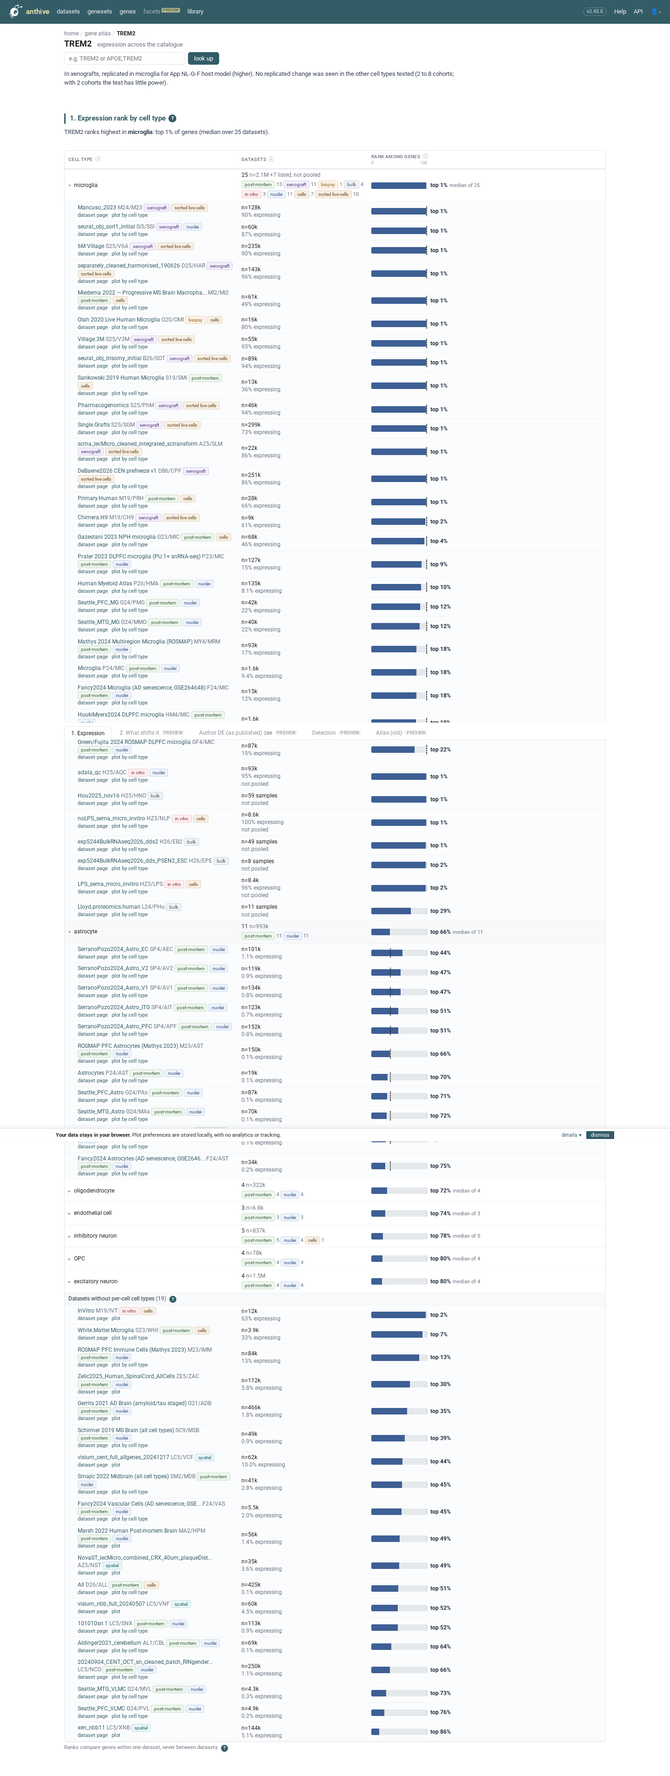
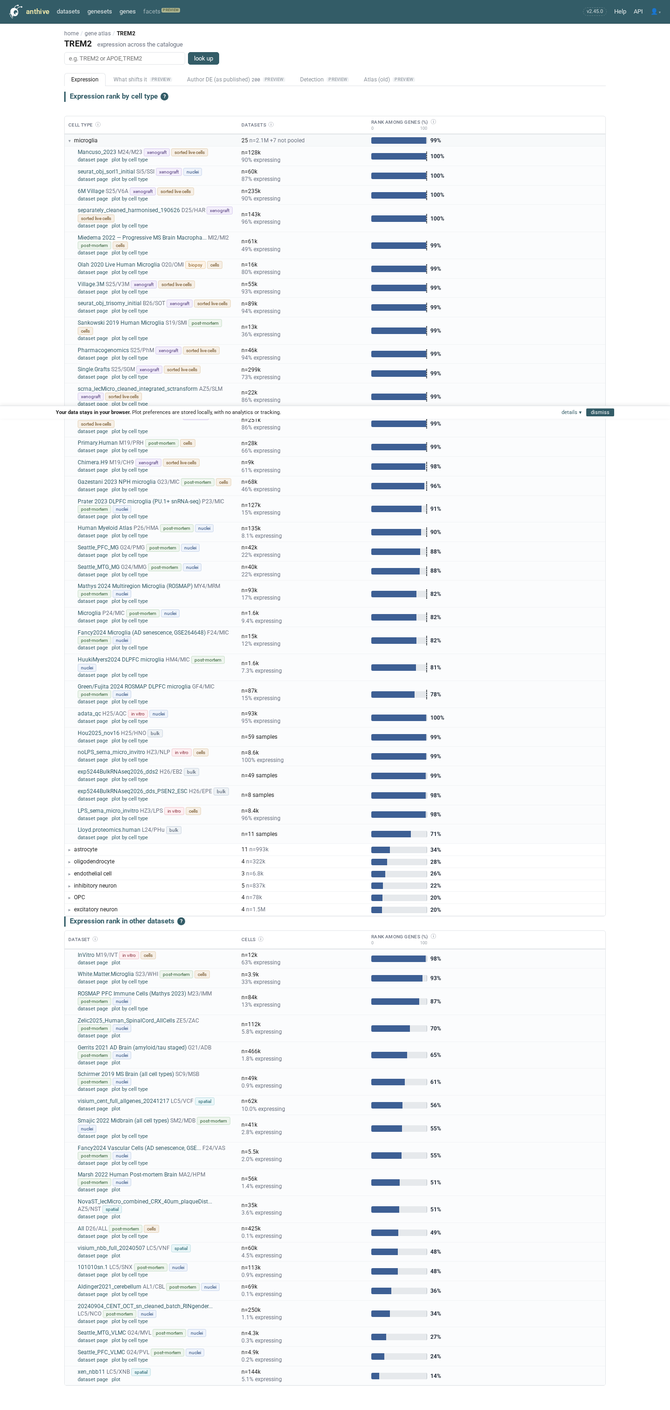
Expression tab: one percent per row, no tag pills on cell type rows, unnumbered tabs and two equal sections; facet summary moves into What shifts it
Claude-Session: https://claude.ai/code/session_01ATo8q1HP1DaD2KMHdiMUow

diff --git a/web/templates/_view_expression.html b/web/templates/_view_expression.html
@@ -14,6 +14,7 @@
 {% macro expression_styles() -%}
 <style>
   col.x-name { width: 32%; } col.x-ds { width: 24%; } col.x-rank { width: 44%; }
+  #vx-other { margin-top: 20px; }
   .vx-prog { font-size: 11.5px; color: var(--text-muted); margin: 0 0 6px; min-height: 16px; }
   .vx-top { font-weight: 600; font-size: 12px; font-variant-numeric: tabular-nums; }
   @media (max-width: 640px) {
@@ -27,29 +28,30 @@
 {% set peers = 'genes' if kind == 'gene' else 'gene sets' %}
 <div id="vx-root" data-kind="{{ kind }}" data-subject="{{ subject }}">
   {{ review_banner('gene-expression' if kind == 'gene' else 'geneset-expression') }}
-  {% call section_help('1. Expression rank by cell type', 'vx-help') %}
-    <p>For each cell type this tab shows where the {{ what }} sits relative to all other {{ peers }} in the same dataset, so you see where it is expressed most strongly compared with everything else. The result is a percentile, written "top x%": a bar that is almost full means the {{ what }} is among the most highly expressed {{ peers }} of that dataset. The ranking is done inside one dataset only, so it does not depend on how a study normalised its counts. Ranks of different datasets are never pooled into one number across cell types.</p>
+  {% call section_help('Expression rank by cell type', 'vx-help') %}
+    <p>For each cell type this tab shows where the {{ what }} sits relative to all other {{ peers }} in the same dataset, so you see where it is expressed most strongly compared with everything else. The value is a percent: 76% means the {{ what }} has a higher mean than 76% of the {{ peers }} of that dataset. A longer bar and a higher percent mean stronger expression relative to the rest. The ranking is done inside one dataset only, so it does not depend on how a study normalised its counts, and ranks are never pooled across datasets other than as a median.</p>
     <h4>Cell type rows</h4>
-    <p>The value of a cell type row is the median percentile over its datasets, and the number of datasets is given next to it. Cell types are sorted by that median, strongest first, so the top row is where the {{ what }} stands out most. Open a row to see its datasets: one bar per dataset, the dotted line marks the median of the cell type, and the links open the dataset page and a plot of the {{ what }} in that dataset.</p>
+    <p>The value of a cell type row is the median percent over its datasets; the Datasets column gives how many there are. Cell types are sorted by that median, strongest first. Open a row to see its datasets: one bar per dataset, the dotted line marks the median of the cell type, a tag gives the category of the dataset and whether it was made from nuclei or cells, and the links open the dataset page and a plot of the {{ what }} in that dataset.</p>
     {% if kind == 'gene' %}
-    <h4>What the rank is</h4>
-    <p>The percentile of the mean (log-normalised) expression of {{ subject }} among all genes found in the dataset: the share of those genes with a lower mean, taken over all cells of the dataset. Datasets in a cell type row consist of one known cell type, so this is the rank within that cell type. Genes with no count in any cell of the dataset are not part of the comparison. The percent of cells that express the gene is shown in small text next to the number of cells.</p>
+    <h4>What the percent is</h4>
+    <p>The share of the genes found in the dataset that have a lower mean (log-normalised) expression than {{ subject }}, taken over all cells of the dataset. Datasets in a cell type row consist of one known cell type, so this is the rank within that cell type. Genes with no count in any cell of the dataset are not part of the comparison. The percent of cells that express the gene is shown in small text under the number of cells.</p>
     {% else %}
-    <h4>What the rank is</h4>
-    <p>The percentile of the mean scanpy score of {{ subject }} among the other gene sets scored on the same cells of the same dataset: the share of those sets with a lower mean score, ties counting half. The scanpy score subtracts the mean of a matched control set of genes, so the means of different sets in one dataset are comparable. UCell is not used because it depends on the number of genes in a set. Only gene sets that apply to the cell type of the dataset are compared: a set built for one cell type is scored on those cells only, and sets that apply to every cell count everywhere. For microglia datasets this means the microglia sets plus the general sets, not the astrocyte sets. It needs at least 10 other sets scored on at least 20 cells, otherwise it reads n/a. The first visit of a dataset can take a moment while its scores are read.</p>
+    <h4>What the percent is</h4>
+    <p>The share of the other gene sets scored on the same cells of the same dataset that have a lower mean scanpy score than {{ subject }}, ties counting half. The scanpy score subtracts the mean of a matched control set of genes, so the means of different sets in one dataset are comparable. UCell is not used because it depends on the number of genes in a set. Only gene sets that apply to the cell type of the dataset are compared: a set built for one cell type is scored on those cells only, and sets that apply to every cell count everywhere. For microglia datasets this means the microglia sets plus the general sets, not the astrocyte sets. It needs at least 10 other sets scored on at least 20 cells, otherwise it reads n/a. The first visit of a dataset can take a moment while its scores are read.</p>
     {% endif %}
     <h4>Same definition for genes and gene sets</h4>
-    <p>Both pages rank the mean of the {{ what }} against the means of its peers in the same dataset, and show the same bar, so the two views read the same way. The unit differs: genes are ranked by mean expression, gene sets by mean score, and the ranks of a gene and of a gene set are not interchangeable numbers.</p>
+    <p>Both pages rank the mean of the {{ what }} against the means of its peers in the same dataset and show the same bar. The unit differs (genes by mean expression, gene sets by mean score), so the percent of a gene and of a gene set are not interchangeable numbers.</p>
     <h4>Dataset categories</h4>
-    <p>Rows are cell types across all datasets, not split by system. A dataset whose cells are all of one known cell type (for example sorted or cultured microglia) sits in that cell type's row, whatever its system, with a tag for its category: <strong>post-mortem</strong>, <strong>xenograft</strong> (human cells in a mouse brain), <strong>biopsy</strong>, <strong>in vitro</strong> or <strong>bulk</strong>. Only tissue datasets (post-mortem, xenograft, biopsy) enter the median of the row. In vitro and bulk datasets are listed in the opened row and marked "not pooled".</p>
-    <h4>Datasets without per-cell cell types</h4>
-    <p>The datasets under this header are listed one by one at the bottom. Their cells are a mixture or have no per-cell cell type (whole-tissue objects, spatial and unclassified datasets), so the rank describes the whole dataset and should be compared with the cell type rows with care.</p>
-    <h4>Nuclei and cells</h4>
-    <p>Detection is not comparable between nuclei and whole cells, so each dataset carries a tag for which it is. Xenograft datasets are sorted live cells.</p>
+    <p>A dataset whose cells are all of one known cell type (for example sorted or cultured microglia) sits in that cell type's row, whatever its system, with a tag for its category: <strong>post-mortem</strong>, <strong>xenograft</strong> (human cells in a mouse brain), <strong>biopsy</strong>, <strong>in vitro</strong> or <strong>bulk</strong>. Only tissue datasets (post-mortem, xenograft, biopsy) enter the median of the row; in vitro and bulk datasets are listed in the opened row and not pooled. Detection is not comparable between nuclei and whole cells, so each dataset also carries a nuclei or cells tag (xenograft datasets are sorted live cells).</p>
   {% endcall %}
-  <div id="vx-headline"></div>
   <div class="vx-prog" id="vx-progress"></div>
   <div id="vx-body"><p class="vw-loading">{% if kind == 'gene' %}Computing {{ subject }} across the catalogue (the first view can take up to a minute, later views are cached)...{% else %}Loading the datasets in which {{ subject }} was scored...{% endif %}</p></div>
+  <div id="vx-other" hidden>
+    {% call section_help('Expression rank in other datasets', 'vx-help-other') %}
+      <p>These datasets are listed one by one. Their cells are a mixture or have no per-cell cell type (whole-tissue objects, spatial and unclassified datasets), so they cannot be assigned to a cell type row and the percent describes the whole dataset. Compare it with the cell type rows with care. The percent is defined as above.</p>
+    {% endcall %}
+    <div id="vx-other-body"></div>
+  </div>
 </div>
 {%- endmacro %}
 
@@ -61,7 +63,7 @@
 window.antExpression = window.antExpression || (function () {
   'use strict';
   var V = window.antViews;
-  function topPct(rank) { return 'top ' + Math.max(1, Math.round((1 - rank) * 100)) + '%'; }
+  function pctOf(rank) { return Math.round(rank * 100) + '%'; }
   function bar(value, mark) {
     var width = Math.max(0, Math.min(100, value));
     return '<span class="vw-bar rank"><span class="vw-bar-fill" style="width:' + width + '%"></span>' + (mark != null ? '<span class="vw-bar-mark" style="left:' + Math.max(0, Math.min(100, mark)) + '%"></span>' : '') + '</span>';
@@ -76,11 +78,11 @@ window.antExpression = window.antExpression || (function () {
     var cat = cats[key] || { label: key, tip: '' };
     return '<span class="vw-cat ' + V.esc(key) + '" title="' + V.esc(cat.tip) + '">' + V.esc(cat.label) + '</span>';
   }
-  // Rank cell: `entry` is the row (rank, peers, reason, tip); `mark` the dotted median line (0..1) or null.
-  function rankCell(row, mark, withPeers) {
+  // Rank cell: `entry` is the row (rank, reason, tip); `mark` the dotted median line (0..1) or null.
+  function rankCell(row, mark) {
     if (row.rank === 'pending') return '<span class="muted">computing...</span>';
     if (!isNumber(row.rank)) return '<span class="muted" title="' + V.esc(row.reason || 'no rank available') + '">n/a</span>';
-    return '<span title="' + V.esc(row.tip || '') + '">' + bar(row.rank * 100, mark == null ? null : mark * 100) + '<span class="vw-bar-val">' + topPct(row.rank) + (withPeers && row.peers ? '<span class="rng">of ' + V.compact(row.peers) + '</span>' : '') + '</span></span>';
+    return '<span title="' + V.esc(row.tip || '') + '">' + bar(row.rank * 100, mark == null ? null : mark * 100) + '<span class="vw-bar-val">' + pctOf(row.rank) + '</span></span>';
   }
   function nCell(row) { return row.n_cells == null ? '' : 'n=' + V.compact(row.n_cells) + (row.bulk ? ' samples' : ''); }
   function byRank(a, b) { return (isNumber(b.rank) ? b.rank : -1) - (isNumber(a.rank) ? a.rank : -1); }
@@ -106,63 +108,46 @@ window.antExpression = window.antExpression || (function () {
     if (settled) blocks.sort(function (a, b) { return (isNumber(b.median) ? b.median : -1) - (isNumber(a.median) ? a.median : -1) || b.members.length - a.members.length; });
     return { blocks: blocks, untyped: untyped };
   }
-  function headline(config, blocks) {
-    var best = blocks.filter(function (block) { return isNumber(block.median); })[0];
-    var host = document.getElementById('vx-headline');
-    if (!host) return;
-    if (!best) { host.innerHTML = ''; return; }
-    var peers = config.kind === 'gene' ? 'genes' : 'gene sets';
-    host.innerHTML = '<p class="vw-lede">' + V.esc(config.subject) + ' ranks highest in <b>' + V.esc(V.plain(best.group)) + '</b>: ' + topPct(best.median) + ' of ' + peers + ' (median over ' + V.plural(best.nRanked, 'dataset') + ').</p>';
-  }
   function mount(config) {
     var host = document.getElementById('vx-body');
+    var otherBox = document.getElementById('vx-other');
+    var otherHost = document.getElementById('vx-other-body');
     var progress = document.getElementById('vx-progress');
     var opened = {};
     var peers = config.kind === 'gene' ? 'genes' : 'gene sets';
     var rankTip = config.kind === 'gene'
-      ? 'Percentile of the mean (log-normalised) expression of the gene among all genes found in the dataset, shown as top x%. A longer bar means more highly expressed than more of the other genes. In a cell type row the value is the median over its datasets; in an opened row the dotted line is that median.'
-      : 'Percentile of the mean scanpy score of the gene set among the other gene sets scored on the same cells of the dataset (sets that apply to the cell type), shown as top x%. A longer bar means a higher mean score than more of the other sets. In a cell type row the value is the median over its datasets; in an opened row the dotted line is that median.';
+      ? 'Percent of the genes found in the dataset with a lower mean (log-normalised) expression than this gene. Higher means stronger expression relative to the other genes. A cell type row shows the median over its datasets; in an opened row the dotted line is that median.'
+      : 'Percent of the other gene sets scored on the same cells of the dataset (sets that apply to its cell type) with a lower mean scanpy score than this gene set. Higher means a stronger score relative to the other sets. A cell type row shows the median over its datasets; in an opened row the dotted line is that median.';
+    function tableHtml(firstLabel, firstTip, secondLabel, secondTip, body) {
+      return '<div class="vw-box"><table class="vw-table fixed vx-table"><colgroup><col class="x-name"><col class="x-ds"><col class="x-rank"></colgroup><thead><tr>' +
+        headerCell(firstLabel, firstTip) +
+        headerCell(secondLabel, secondTip) +
+        headerCell('Rank among ' + peers + ' (%)', rankTip, ['0', '100']) + '</tr></thead><tbody>' + body + '</tbody></table></div>';
+    }
+    function datasetRow(row, attrs, mark) {
+      return '<tr class="vw-sub"' + attrs + '>' + datasetCell(config, row) + '<td class="vw-ds">' + nCell(row) + (row.note ? '<div class="muted">' + row.note + '</div>' : '') + '</td><td class="vw-bar-cell">' + rankCell(row, mark) + '</td></tr>';
+    }
     function draw(rows) {
       var pending = rows.filter(function (row) { return row.rank === 'pending'; }).length;
       progress.textContent = pending ? 'Computing ranks: ' + (rows.length - pending) + ' of ' + rows.length + ' datasets done.' : '';
-      if (!rows.length) { host.innerHTML = '<div class="vw-placeholder">' + V.esc(config.subject) + ' has no ' + (config.kind === 'gene' ? 'expression summary in the human datasets' : 'per-cell score in any dataset') + '.</div>'; return; }
+      if (!rows.length) { host.innerHTML = '<div class="vw-placeholder">' + V.esc(config.subject) + ' has no ' + (config.kind === 'gene' ? 'expression summary in the human datasets' : 'per-cell score in any dataset') + '.</div>'; otherBox.hidden = true; return; }
       var built = buildBlocks(rows, !pending);
-      var blocks = built.blocks;
-      var html = '<div class="vw-box"><table class="vw-table fixed vx-table"><colgroup><col class="x-name"><col class="x-ds"><col class="x-rank"></colgroup><thead><tr>' +
-        headerCell('Cell type', 'Cell type of the datasets in the row, sorted by the rank of ' + (config.kind === 'gene' ? 'the gene' : 'the gene set') + ' (strongest first). Click a row to list its datasets.') +
-        headerCell('Datasets', 'Number of datasets pooled into this cell type and the cells in them (n). In vitro and bulk datasets are listed in the opened row but not pooled. Tags show the category of each dataset and whether it was made from nuclei or from whole cells.') +
-        headerCell('Rank among ' + peers, rankTip, ['0', '100']) + '</tr></thead><tbody>';
-      blocks.forEach(function (block, index) {
+      var body = '';
+      built.blocks.forEach(function (block, index) {
         var key = 'g:' + block.group;
         var isOpen = !!opened[key];
         var extra = block.listed.length - block.members.length;
         var totalCells = block.members.reduce(function (sum, row) { return sum + (row.n_cells || 0); }, 0);
-        var counts = {}, catCounts = {};
-        block.listed.forEach(function (row) {
-          if (row.modality) counts[row.modality] = (counts[row.modality] || 0) + 1;
-          catCounts[row.category] = (catCounts[row.category] || 0) + 1;
-        });
-        var tags = Object.keys(catCounts).map(function (name) { return categoryTag(config.categories, name) + ' ' + catCounts[name]; }).concat(Object.keys(counts).map(function (name) { return modalityTag(name) + ' ' + counts[name]; })).join(' ');
-        var pending = block.members.some(function (row) { return row.rank === 'pending'; });
         var summary;
         if (!block.members.length) summary = '<span class="muted" title="Only in vitro or bulk datasets: listed in the opened row, not pooled.">not pooled</span>';
-        else if (pending && !isNumber(block.median)) summary = '<span class="muted">computing...</span>';
-        else if (!isNumber(block.median)) summary = '<span class="muted" title="No dataset of this cell type could be ranked.">n/a</span>';
-        else summary = '<span title="Median over ' + block.nRanked + ' dataset(s); ' + topPct(block.low) + ' (weakest) to ' + topPct(block.high) + ' (strongest)">' + bar(block.median * 100, null) + '<span class="vw-bar-val">' + topPct(block.median) + '<span class="rng">median of ' + block.nRanked + '</span></span></span>';
-        html += '<tr class="vw-toggle" data-key="' + V.esc(key) + '" data-i="' + index + '"><td><span class="caret">' + (isOpen ? '&#9662;' : '&#9656;') + '</span>' + V.esc(V.plain(block.group)) + '</td><td class="vw-ds">' + (block.members.length || '0') + ' <span class="muted">' + (block.members.length ? nCell({ n_cells: totalCells }) : '') + (extra ? (block.members.length ? ' ' : '') + '+' + extra + ' listed, not pooled' : '') + '</span>' + (tags ? '<div class="vw-mods">' + tags + '</div>' : '') + '</td><td class="vw-bar-cell">' + summary + '</td></tr>';
+        else if (!isNumber(block.median)) summary = block.members.some(function (row) { return row.rank === 'pending'; }) ? '<span class="muted">computing...</span>' : '<span class="muted" title="No dataset of this cell type could be ranked.">n/a</span>';
+        else summary = '<span title="Median over ' + block.nRanked + ' dataset(s), from ' + pctOf(block.low) + ' to ' + pctOf(block.high) + '">' + bar(block.median * 100, null) + '<span class="vw-bar-val">' + pctOf(block.median) + '</span></span>';
+        body += '<tr class="vw-toggle" data-key="' + V.esc(key) + '" data-i="' + index + '"><td><span class="caret">' + (isOpen ? '&#9662;' : '&#9656;') + '</span>' + V.esc(V.plain(block.group)) + '</td><td class="vw-ds">' + (block.members.length || '0') + ' <span class="muted">' + (block.members.length ? nCell({ n_cells: totalCells }) : '') + (extra ? ' +' + extra + ' not pooled' : '') + '</span></td><td class="vw-bar-cell">' + summary + '</td></tr>';
         block.listed.slice().sort(function (a, b) { return (b.pooled - a.pooled) || byRank(a, b); }).forEach(function (row) {
-          var mark = row.pooled && isNumber(block.median) ? block.median : null;
-          html += '<tr class="vw-sub" data-p="' + index + '"' + (isOpen ? '' : ' hidden') + '>' + datasetCell(config, row) + '<td class="vw-ds">' + nCell(row) + (row.note ? '<div class="muted">' + row.note + '</div>' : '') + (row.pooled ? '' : '<div class="muted" title="In vitro and bulk datasets are listed with their tag but not pooled into the cell type summary, because culture and bulk samples are not comparable with tissue cells.">not pooled</div>') + '</td><td class="vw-bar-cell">' + rankCell(row, mark, true) + '</td></tr>';
+          body += datasetRow(row, ' data-p="' + index + '"' + (isOpen ? '' : ' hidden'), row.pooled && isNumber(block.median) ? block.median : null);
         });
       });
-      if (built.untyped.length) {
-        html += '<tr class="vw-scope-row"><td colspan="3">Datasets without per-cell cell types <span class="muted">(' + built.untyped.length + ')</span>&nbsp;' + V.helpBtn('vx-help') + '</td></tr>';
-        built.untyped.slice().sort(byRank).forEach(function (row) {
-          html += '<tr class="vw-sub vw-flat">' + datasetCell(config, row) + '<td class="vw-ds">' + nCell(row) + (row.note ? '<div class="muted">' + row.note + '</div>' : '') + '</td><td class="vw-bar-cell">' + rankCell(row, null, true) + '</td></tr>';
-        });
-      }
-      html += '</tbody></table></div><p class="vw-fnote">Ranks compare ' + peers + ' within one dataset, never between datasets&nbsp;' + V.helpBtn('vx-help') + '</p>';
-      host.innerHTML = html;
+      host.innerHTML = built.blocks.length ? tableHtml('Cell type', 'Cell type of the datasets in the row, strongest first. Click a row to list its datasets.', 'Datasets', 'Number of datasets pooled into the cell type and the cells in them (n). In vitro and bulk datasets are listed in the opened row but not pooled.', body) : '<div class="vw-placeholder">No dataset consists of one known cell type.</div>';
       host.querySelectorAll('tr.vw-toggle').forEach(function (tr) {
         tr.addEventListener('click', function () {
           var subs = host.querySelectorAll('tr[data-p="' + tr.dataset.i + '"]');
@@ -172,7 +157,8 @@ window.antExpression = window.antExpression || (function () {
           tr.querySelector('.caret').innerHTML = show ? '&#9662;' : '&#9656;';
         });
       });
-      headline(config, blocks);
+      otherBox.hidden = !built.untyped.length;
+      otherHost.innerHTML = built.untyped.length ? tableHtml('Dataset', 'Datasets whose cells are a mixture or have no per-cell cell type; the percent describes the whole dataset.', 'Cells', 'Number of cells (samples for bulk) in the dataset.', built.untyped.slice().sort(byRank).map(function (row) { return datasetRow(row, '', null); }).join('')) : '';
     }
     config.rowsReady(draw);
   }
@@ -181,7 +167,7 @@ window.antExpression = window.antExpression || (function () {
     row.typed = row.category !== 'spatial' && row.category !== 'unclassified' && groups.indexOf(row.group) >= 0;
     return row;
   }
-  return { mount: mount, classify: classify, topPct: topPct };
+  return { mount: mount, classify: classify, pctOf: pctOf };
 })();
 </script>
 {%- endmacro %}

diff --git a/web/templates/geneset.html b/web/templates/geneset.html
@@ -39,18 +39,17 @@
 </details>
 {% endif %}
 {% endif %}
-{{ view_geneset_headline() }}
 <div class="tab-bar vw-tabs-bar" id="vw-tabs" role="tablist">
-  <button type="button" class="tab-btn {{ view_class('geneset-expression') }}" title="{{ view_tip('geneset-expression', 'Where the gene set ranks among all gene sets scored in a dataset, per cell type') }}" data-vtab="expression" data-hash="expression" role="tab">1. Expression</button>
+  <button type="button" class="tab-btn {{ view_class('geneset-expression') }}" title="{{ view_tip('geneset-expression', 'Where the gene set ranks among all gene sets scored in a dataset, per cell type') }}" data-vtab="expression" data-hash="expression" role="tab">Expression</button>
   <button type="button" class="tab-btn {{ view_class('geneset-score') }}" title="{{ view_tip('geneset-score', 'The earlier expression table: rank among gene sets and spread of the score') }}" data-vtab="score" data-hash="module-score" data-alias="geneset-view" role="tab">Module score</button>
-  <button type="button" class="tab-btn {{ view_class('geneset-shifts') }}" title="{{ view_tip('geneset-shifts', 'Facet effects on the mean score of the set') }}" data-vtab="shifts" data-hash="shifts" role="tab">2. What shifts it</button>
-  <button type="button" class="tab-btn {{ view_class('geneset-variability') }}" title="{{ view_tip('geneset-variability') }}" data-vtab="variability" data-hash="variability" role="tab" hidden>3. Donor variability</button>
+  <button type="button" class="tab-btn {{ view_class('geneset-shifts') }}" title="{{ view_tip('geneset-shifts', 'Facet effects on the mean score of the set') }}" data-vtab="shifts" data-hash="shifts" role="tab">What shifts it</button>
+  <button type="button" class="tab-btn {{ view_class('geneset-variability') }}" title="{{ view_tip('geneset-variability') }}" data-vtab="variability" data-hash="variability" role="tab" hidden>Donor variability</button>
   <button type="button" class="tab-btn {{ view_class('geneset-genes') }}" title="{{ view_tip('geneset-genes', 'Member genes and their own facet calls') }}" data-vtab="genes" data-hash="genes" role="tab">Genes</button>
   <button type="button" class="tab-btn vw-old {{ view_class('geneset-page') }}" title="{{ view_tip('geneset-page', 'The earlier geneset page: members, where the score varies most') }}" data-vtab="page" data-hash="page" role="tab">Geneset page (old)</button>
 </div>
 <div class="tab-panel vw-panel" id="vt-expression">{{ expression_panel('geneset', payload.display_name) }}</div>
 <div class="tab-panel vw-panel" id="vt-score">{{ _review_banner('geneset-score') }}{{ view_geneset_score(name) }}</div>
-<div class="tab-panel vw-panel" id="vt-shifts">{{ _review_banner('geneset-shifts') }}{{ view_geneset_shifts(name) }}</div>
+<div class="tab-panel vw-panel" id="vt-shifts">{{ _review_banner('geneset-shifts') }}{{ view_geneset_headline() }}{{ view_geneset_shifts(name) }}</div>
 <div class="tab-panel vw-panel" id="vt-variability">{{ _review_banner('geneset-variability') }}{{ view_geneset_variability() }}</div>
 <div class="tab-panel vw-panel" id="vt-genes">{{ _review_banner('geneset-genes') }}{{ view_geneset_genes(name) }}</div>
 <div class="tab-panel" id="vt-page">

diff --git a/web/templates/genes.html b/web/templates/genes.html
@@ -203,17 +203,16 @@
 {{ expression_styles() }}
 {{ views_core() }}
 {{ expression_core() }}
-{{ view_gene_headline() }}
 <div class="tab-bar vw-tabs-bar" id="vw-tabs" role="tablist">
-  <button type="button" class="tab-btn {{ view_class('gene-expression') }}" title="{{ view_tip('gene-expression', 'Where the gene ranks among all genes, per cell type') }}" data-vtab="expression" data-hash="expression" role="tab">1. Expression</button>
-  <button type="button" class="tab-btn {{ view_class('gene-shifts') }}" title="{{ view_tip('gene-shifts', 'Facet effects on the gene') }}" data-vtab="shifts" data-hash="shifts" role="tab">2. What shifts it</button>
-  <button type="button" class="tab-btn {{ view_class('gene-variability') }}" title="{{ view_tip('gene-variability') }}" data-vtab="variability" data-hash="variability" role="tab" hidden>3. Donor variability</button>
+  <button type="button" class="tab-btn {{ view_class('gene-expression') }}" title="{{ view_tip('gene-expression', 'Where the gene ranks among all genes, per cell type') }}" data-vtab="expression" data-hash="expression" role="tab">Expression</button>
+  <button type="button" class="tab-btn {{ view_class('gene-shifts') }}" title="{{ view_tip('gene-shifts', 'Facet effects on the gene') }}" data-vtab="shifts" data-hash="shifts" role="tab">What shifts it</button>
+  <button type="button" class="tab-btn {{ view_class('gene-variability') }}" title="{{ view_tip('gene-variability') }}" data-vtab="variability" data-hash="variability" role="tab" hidden>Donor variability</button>
   <button type="button" class="tab-btn {{ view_class('gene-author-de') }}" title="{{ view_tip('gene-author-de') }}" data-vtab="de" data-hash="author-de" role="tab" hidden>Author DE (as published)<span class="tab-count"></span></button>
   <button type="button" class="tab-btn {{ view_class('gene-detection') }}" title="{{ view_tip('gene-detection', 'The earlier expression table: percent of cells expressing and rank in dataset') }}" data-vtab="detection" data-hash="detection" data-alias="gene-view" role="tab">Detection</button>
   <button type="button" class="tab-btn vw-old {{ view_class('gene-atlas') }}" title="{{ view_tip('gene-atlas', 'The earlier atlas page: one row per dataset') }}" data-vtab="atlas" data-hash="atlas" role="tab">Atlas (old)</button>
 </div>
 <div class="tab-panel vw-panel" id="vt-expression">{{ expression_panel('gene', gene) }}</div>
-<div class="tab-panel vw-panel" id="vt-shifts">{{ _review_banner('gene-shifts') }}{{ view_gene_shifts(gene) }}</div>
+<div class="tab-panel vw-panel" id="vt-shifts">{{ _review_banner('gene-shifts') }}{{ view_gene_headline() }}{{ view_gene_shifts(gene) }}</div>
 <div class="tab-panel vw-panel" id="vt-variability">{{ _review_banner('gene-variability') }}{{ view_gene_variability(gene) }}</div>
 <div class="tab-panel vw-panel" id="vt-de">{{ _review_banner('gene-author-de') }}{{ view_gene_author_de(gene) }}</div>
 <div class="tab-panel vw-panel" id="vt-detection">{{ _review_banner('gene-detection') }}{{ view_gene_expression(gene) }}</div>

diff --git a/tests/test_web_views.py b/tests/test_web_views.py
@@ -138,11 +138,12 @@ def test_gene_page_has_the_three_tabs_and_the_dataset_map(client):
     for marker in ('data-vtab="expression"', 'data-vtab="shifts"', 'data-vtab="variability"', 'data-vtab="atlas"', 'data-vtab="de"',
                    'id="vt-expression"', 'id="vt-shifts"', 'id="vt-variability"', 'id="vt-atlas"', 'id="vwg-p1"', 'id="vwg-p2"', 'id="vwg-headline"'):
         assert marker in text, marker
-    for label in ("1. Expression", "2. What shifts it", "3. Donor variability", "Author DE (as published)", "Atlas (old)"):
+    for label in ("Expression", "What shifts it", "Donor variability", "Author DE (as published)", "Atlas (old)"):
         assert label in text, label
     for hash_name in ("expression", "shifts", "variability", "author-de", "atlas"):
         assert f'data-hash="{hash_name}"' in text, hash_name
-    assert text.index('id="vwg-headline"') < text.index('id="vw-tabs"')       # the summary sentence sits above the tabs
+    assert text.index('id="vwg-headline"') > text.index('id="vt-shifts"')      # facet summary sentence lives in the What shifts it tab
+    assert not re.search(r'data-vtab="\w+"[^>]*>\d\. ', text)               # no numbers on tab labels
     assert text.index('data-vtab="de"') < text.index('data-vtab="atlas"')      # the old atlas tab is last
     assert "expression across the catalogue" in text
     assert 'data-vtab="de" data-hash="author-de" role="tab" hidden' in text      # shown only when DE exists
@@ -192,9 +193,9 @@ def test_geneset_page_has_the_view_tab(client):
     for marker in ('data-vtab="score"', 'data-vtab="shifts"', 'data-vtab="variability"', 'data-vtab="page"', 'id="vt-score"', 'id="vt-shifts"',
                    'id="vt-variability"', 'id="vt-page"', 'id="vws-p1"', 'id="vws-p2"', 'id="vws-headline"', 'id="vws-p1-help" hidden', 'id="vws-p2-help" hidden'):
         assert marker in text, marker
-    for label in ("1. Expression", "Module score", "2. What shifts it", "3. Donor variability", "Geneset page (old)"):
+    for label in ("Expression", "Module score", "What shifts it", "Donor variability", "Geneset page (old)"):
         assert label in text, label
-    assert text.index('id="vws-headline"') < text.index('id="vw-tabs"')
+    assert text.index('id="vws-headline"') > text.index('id="vt-shifts"')
     assert "doc-block" not in text.split('id="vt-page"')[0].split('id="vw-tabs"')[1]       # no doc_block clutter in the view tabs
     payload = json.loads(re.search(r"var PAYLOAD = (\{.*?\});\n", text, re.S).group(1))
     assert payload["scored_in"] == ["A/n1", "A/c1"] and payload["column_name"] == "Study1::Exp1::DAM"
@@ -516,7 +517,7 @@ def test_gene_page_expression_is_first_and_only_approved_tab(client):
     assert "review-banner" not in panel("expression").split('id="vx-help"')[0]
     for name in ("shifts", "detection"):
         assert "review-banner" in panel(name)
-    for marker in ('id="vx-root" data-kind="gene"', "1. Expression rank by cell type", 'id="vx-help" hidden', "window.antExpression"):
+    for marker in ('id="vx-root" data-kind="gene"', "Expression rank by cell type", "Expression rank in other datasets", 'id="vx-help" hidden', 'id="vx-help-other" hidden', "window.antExpression"):
         assert marker in text, marker
 
 
@@ -536,7 +537,8 @@ def test_gene_and_geneset_expression_use_one_renderer(client):
     geneset = client.get("/genesets/Study1/Exp1/DAM").text
     for text in (gene, geneset):
         assert text.count("window.antExpression = window.antExpression") == 1
-        assert "Rank among" in text and "Datasets without per-cell cell types" in text
+        assert "Rank among" in text and 'id="vx-other"' in text
+        assert "top x%" not in text.split('id="vt-expression"')[1].split('class="tab-panel', 1)[0] and "median of" not in text.split("window.antExpression = ")[1].split("</script>")[0]
     assert "mean (log-normalised) expression" in gene and "scanpy score" in geneset
 
 
@@ -566,5 +568,5 @@ def test_geneset_landing_without_the_list_has_no_search(client):
 def test_help_describes_preview_marker_and_expression_rank():
     import help_content
     gene_view = help_content.get_topic("gene-view").body_html
-    assert "preview" in gene_view and "Expression rank" in gene_view
+    assert "preview" in gene_view and "Expression rank" in gene_view and "76%" in gene_view
     assert "Expression rank" in help_content.get_topic("geneset-view").body_html

diff --git a/web/CLAUDE.md b/web/CLAUDE.md
@@ -835,5 +835,5 @@ starCAT modules/scores (`.description` on `/catalogs`). Wire each up when shippe
 ## Approved views, Expression tab, gene set search (2026-10-12)
 
 - **Approved views.** `VIEW_REGISTRY` / `APPROVED_VIEWS` at the top of `browser.py` are the one list of reviewed data views (keys such as `datasets`, `genes`, `genesets`, `gene-expression`, `geneset-expression`; everything else is greyed). Jinja globals `view_approved(key)` (raises KeyError on unknown keys), `view_class(key)` (`vw-preview`), `view_tip(key, text)`, and the macro `review_banner(key)` in `_macros.html` (slim muted banner, `.review-banner`). Greyed nav links get `vw-preview` plus a "preview" badge, tabs get `vw-preview` (CSS `::after` marker), pages and tab panels start with the banner. Approving a view = add its key to `APPROVED_VIEWS`. Utility pages are outside the mechanism. Nothing is hidden or removed.
-- **Expression tab** (`_view_expression.html`, first and default tab of `/genes/{gene}` and `/genesets/{s}/{e}/{n}`). One renderer `window.antExpression` for both; gene rows come from `/gene_stats_all` (`rank_mean`: share of the genes of the dataset with a lower mean log-normalised expression over all cells), gene set rows from `GET /genesets/{s}/{e}/{n}/rank?db_id=` (share of the other sets scored on the same cells with a lower mean scanpy score, ties half; peers are in scope by construction because modules only have scores on cells of their scope), 3 requests at a time, ranks fill in. Same dataset-to-block rule for both (single known cell type, not spatial/unclassified; in vitro and bulk listed but not pooled; the rest under "Datasets without per-cell cell types"). Cell types sort by the median percentile once every rank is in. The earlier gene panel 1 is the `Detection` tab, the earlier gene set panel 1 is `Module score` (built lazily on first open, so the slow rank calls are not made twice). No backend change.
+- **Expression tab** (`_view_expression.html`, first and default tab of `/genes/{gene}` and `/genesets/{s}/{e}/{n}`). One renderer `window.antExpression` for both; gene rows come from `/gene_stats_all` (`rank_mean`: share of the genes of the dataset with a lower mean log-normalised expression over all cells), gene set rows from `GET /genesets/{s}/{e}/{n}/rank?db_id=` (share of the other sets scored on the same cells with a lower mean scanpy score, ties half; peers are in scope by construction because modules only have scores on cells of their scope), 3 requests at a time, ranks fill in. Same dataset-to-block rule for both (single known cell type, not spatial/unclassified; in vitro and bulk listed but not pooled; the rest under "Datasets without per-cell cell types"). Cell types sort by the median percent once every rank is in. The earlier gene panel 1 is the `Detection` tab, the earlier gene set panel 1 is `Module score` (built lazily on first open, so the slow rank calls are not made twice). No backend change.
 - **Gene set search.** `/genesets` embeds every set (`_geneset_search_rows`, from `GET /genesets`) as JSON and filters client-side (all words, case, accents and `_ - /` ignored; arrows, Enter, Escape; `?q=`).
